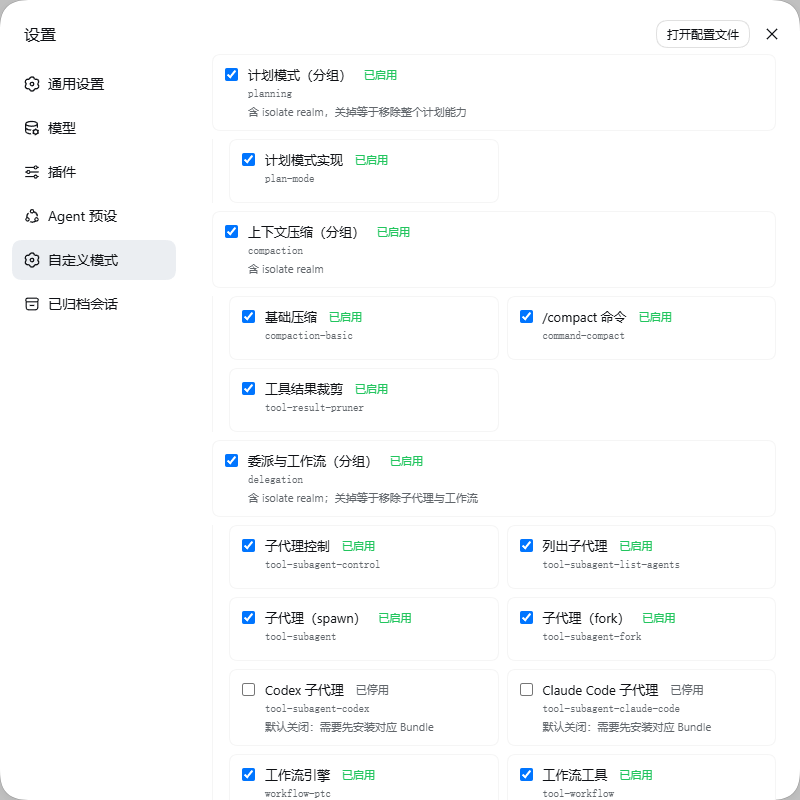
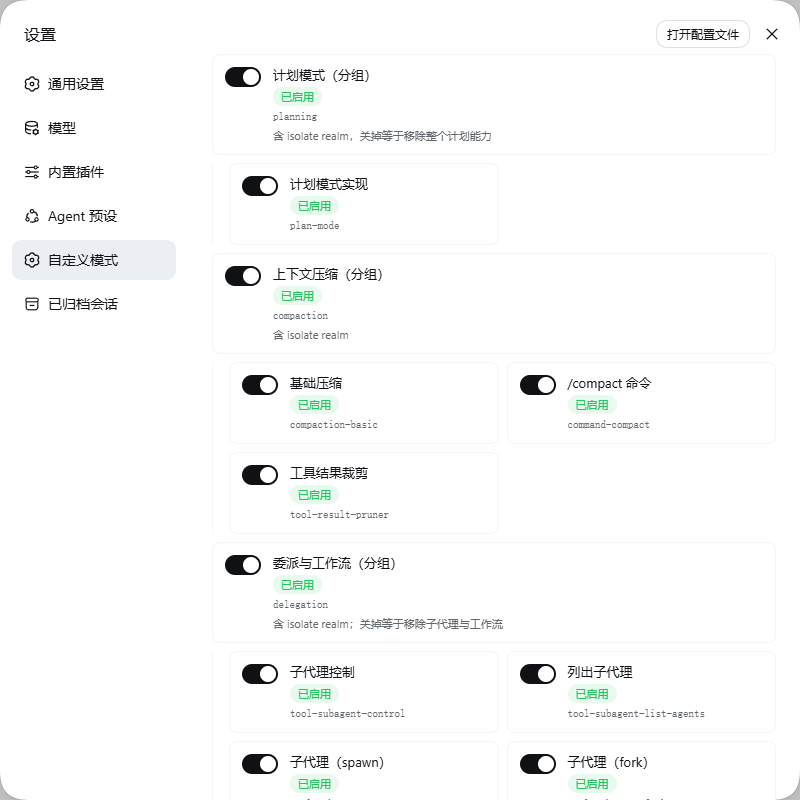
fix(screenshots): 修好新 UI 下的拍摄，并按新界面重拍五张图
界面换到壳自己的原子组件后，拍摄脚本的两处定位就失效了，README 图也就没法再生成：

- 开关不再是 `input[type=checkbox]`，而是 `[role=switch]` + `aria-checked`（实测 32 行 / 32 个开关 /
  0 个 checkbox）；保存控件是普通 `button`，不再有 `.cpfe-btn`。两处都改成按新结构找。
- `run-shots.sh` 在 `cd` 到工具目录**之后**才解析输出目录，相对路径 `docs/images` 于是被创建在
  `tools/screenshots/docs/images/`。改成先解析成绝对路径，并用相对参数重跑验证。
- 01 改成对准「模式名称 + 基础模式」（它的 alt 文字就是这么写的），助手列表交给 05 —— 否则两张图
  几乎是同一张。05 现在拍的是两个助手，正好体现多助手这件事。
- 五张图都在 dsh 0.1.6-alpha.2 上重新拍过，800x800，合计约 310 KB。

diff --git a/docs/images/README.md b/docs/images/README.md
@@ -1,34 +1,37 @@
 # Screenshots
 
-> **01–04 predate the assistant manager and its UI pass.** They were captured from the single-mode
-> page with hand-rolled controls; the page now opens with an assistant selector (pills) above the
-> blocks they show and uses the shell's shared atoms. `tools/screenshots/screenshots.mjs` has been
-> updated for the new endpoints, so re-running it regenerates them against the current UI — see
-> [`../../tools/screenshots/README.md`](../../tools/screenshots/README.md).
->
-> **`05-assistant-manager.png` is current.** It is not hand-taken: it is the artifact
-> `tools/browser-verify.mjs` writes on every run, captured against a real instance on the lab
-> (dsh 0.1.6-alpha.2) while that run's 21 assertions passed. Regenerate it with:
->
-> ```sh
-> CDP_PORT=9222 node tools/browser-verify.mjs --url "<token URL>" --out docs/images/05-assistant-manager.png
-> ```
-
-Four images, all captured by driving a real running instance, all **800x800 PNG** (44–76 KB each):
+Five images, all **800x800 PNG** (~44–77 KB each, ~310 KB in total). None of them is hand-taken: each
+is captured by driving a real running instance, and four of them come from two scripts you can re-run.
 
 ```
-01-mode-switch.png      Settings →「自定义模式」, upper part (pre-manager: mode name + base mode)
-02-plugin-switches.png  Plugin switches: group and child indentation, tri-state badges
-03-system-prompt.png    The system prompt editor and the save bar
-04-preset-picker.png    The new-session mode picker, with「自定义模式」in the list
-05-assistant-manager.png  The CURRENT page: assistant pills, create row, both action rows, labeled switches
+01-mode-switch.png        Settings →「自定义模式」, mode name + base mode (and the top of the switches)
+02-plugin-switches.png    Plugin switches: group and child indentation, tri-state badges
+03-system-prompt.png      The system prompt editor and the save bar, right after a real save
+04-preset-picker.png      The new-session mode picker, with the custom modes in the list
+05-assistant-manager.png  The assistant list: several modes in one page, each with its own prompt
 ```
 
-How they are captured, what they need, and how to re-run them:
-[`../../tools/screenshots/README.md`](../../tools/screenshots/README.md). The
-[`observed.json`](../../tools/screenshots/observed.json) written next to the capture script records
-the state it verified (theme, language, what the save returned, the mode list), which is what makes
-these images evidence rather than decoration.
+`01`–`04` are shot by `tools/screenshots/screenshots.mjs`, which really clicks, toggles a row, saves,
+and switches theme and language (see [`../../tools/screenshots/README.md`](../../tools/screenshots/README.md)):
+
+```sh
+DSH_HOME=<test home> ./tools/screenshots/run-shots.sh "<token URL>" docs/images
+```
+
+`05` is not a separate capture run: it is the screenshot `tools/browser-verify.mjs` writes at the end
+of its 21 assertions. Two assistants are present when it is shot, so the image shows what the assistant
+list is for:
+
+```sh
+CDP_PORT=9222 node tools/browser-verify.mjs --url "<token URL>" --out docs/images/05-assistant-manager.png
+```
+
+`01` shows the mode name and base mode rather than the assistant list, because that list is what `05`
+is about; the two would otherwise be the same picture.
+
+The [`observed.json`](../../tools/screenshots/observed.json) written next to the capture script records
+the state it verified (theme, language, what the save returned, the mode list, the toggle it flipped),
+which is what makes these images evidence rather than decoration.
 
 The READMEs reference these file names, so **renaming one means updating the docs**:
 

diff --git a/tools/screenshots/README.md b/tools/screenshots/README.md
@@ -1,7 +1,9 @@
 # Screenshots
 
-All four images are captured by driving a **real running dsh instance** — none of them is hand-drawn
-or stitched together. The script also writes down the state it observed, into
+Every image in `docs/images/` is captured by driving a **real running dsh instance** — none of them is
+hand-drawn or stitched together. This script produces `01`–`04`; `05` is the screenshot
+[`../browser-verify.mjs`](../browser-verify.mjs) writes at the end of its assertions, so it is evidence
+of a passing run rather than a separate capture session. The script also writes down the state it observed, into
 [`observed.json`](observed.json).
 
 That is the point: a hand-taken screenshot silently goes stale, and nobody can tell when or on which
@@ -63,7 +65,7 @@ The four README images are **800x800, PNG, scale 1**, for three reasons:
 - **Small**: scale 1 rather than 2. GitHub scales images down to the content column, so a 2x capture
   only multiplies the file size — measured, the same four images went from ~750 KB to ~223 KB, and an
   800px-wide image is displayed at its native size, so the text is if anything clearer.
-- **Few**: it captures only the four images the README uses. The dark theme and the English UI are
+- **Few**: it captures only the four images the README uses (`05` is the verifier's own artifact). The dark theme and the English UI are
   still switched to and asserted (the observations go into `observed.json`) but they are not saved as
   separate pictures — that would be a duplicate screen, not worth several hundred KB of downloads.
 
